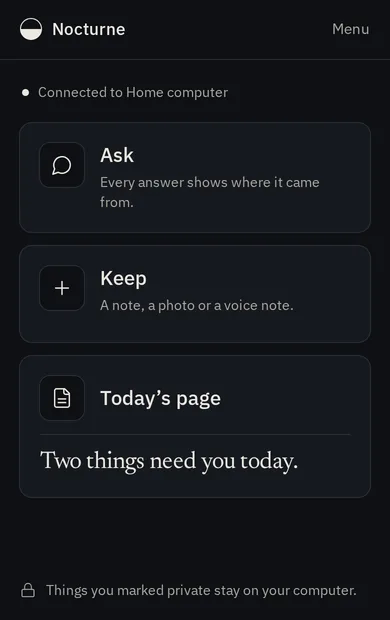
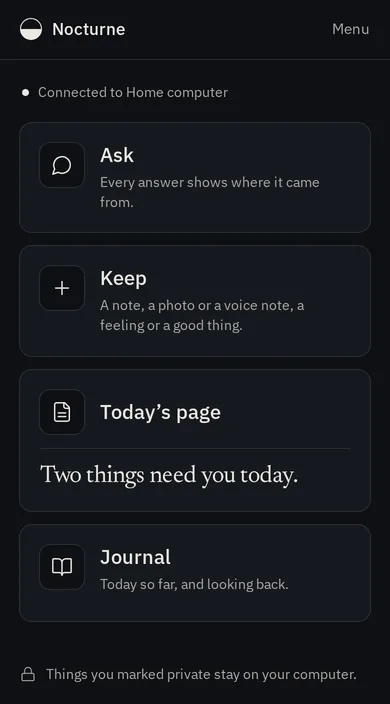
feat(site): capture the journal pictures

diff --git a/site/index.html b/site/index.html
@@ -180,10 +180,10 @@
   <figure class="phone">
     <div class="phone-frame">
       <picture class="only-light">
-        <img src="/assets/img/phone-light-390.webp" srcset="/assets/img/phone-light-390.webp 390w, /assets/img/phone-light-780.webp 780w" sizes="240px" width="780" height="1240" alt="{{t:phone.alt}}" loading="lazy">
+        <img src="/assets/img/phone-light-390.webp" srcset="/assets/img/phone-light-390.webp 390w, /assets/img/phone-light-780.webp 780w" sizes="240px" width="780" height="1408" alt="{{t:phone.alt}}" loading="lazy">
       </picture>
       <picture class="only-dark">
-        <img src="/assets/img/phone-dark-390.webp" srcset="/assets/img/phone-dark-390.webp 390w, /assets/img/phone-dark-780.webp 780w" sizes="240px" width="780" height="1240" alt="{{t:phone.alt}}" loading="lazy">
+        <img src="/assets/img/phone-dark-390.webp" srcset="/assets/img/phone-dark-390.webp 390w, /assets/img/phone-dark-780.webp 780w" sizes="240px" width="780" height="1408" alt="{{t:phone.alt}}" loading="lazy">
       </picture>
     </div>
     <figcaption>{{t:phone.caption}}</figcaption>

diff --git a/docs/contribution/website.md b/docs/contribution/website.md
@@ -113,6 +113,12 @@ make -C site shots PHONE=http://127.0.0.1:4174   # writes site/assets/img/*.webp
 `make shots` prints where the highlighted part of each tour picture sits. When a recapture moves
 it, copy the numbers into that step's `data-mark` in `site/index.html`; the translated pages share it.
 
+`SHOTS=journal,look make -C site shots` takes only the shots it names. The journal pictures need a
+mock interface that has the journal. They set the mock clock to Thursday 12 November, the evening
+before the hero's Friday page, and are cut on a blank line so the card laid over the window's foot
+covers no words. A capture that moves that line
+needs a new `height` in `site/scripts/shots.mjs` and new picture sizes in `site/index.html`.
+
 On wide screens, when the reader has not asked for reduced motion, `assets/js/tour.js` turns the
 Keep, Ask and morning page steps into one still frame beside the text: as each step reaches the
 middle of the screen only the page in the frame cross-fades, and a short highlighter pass shows
